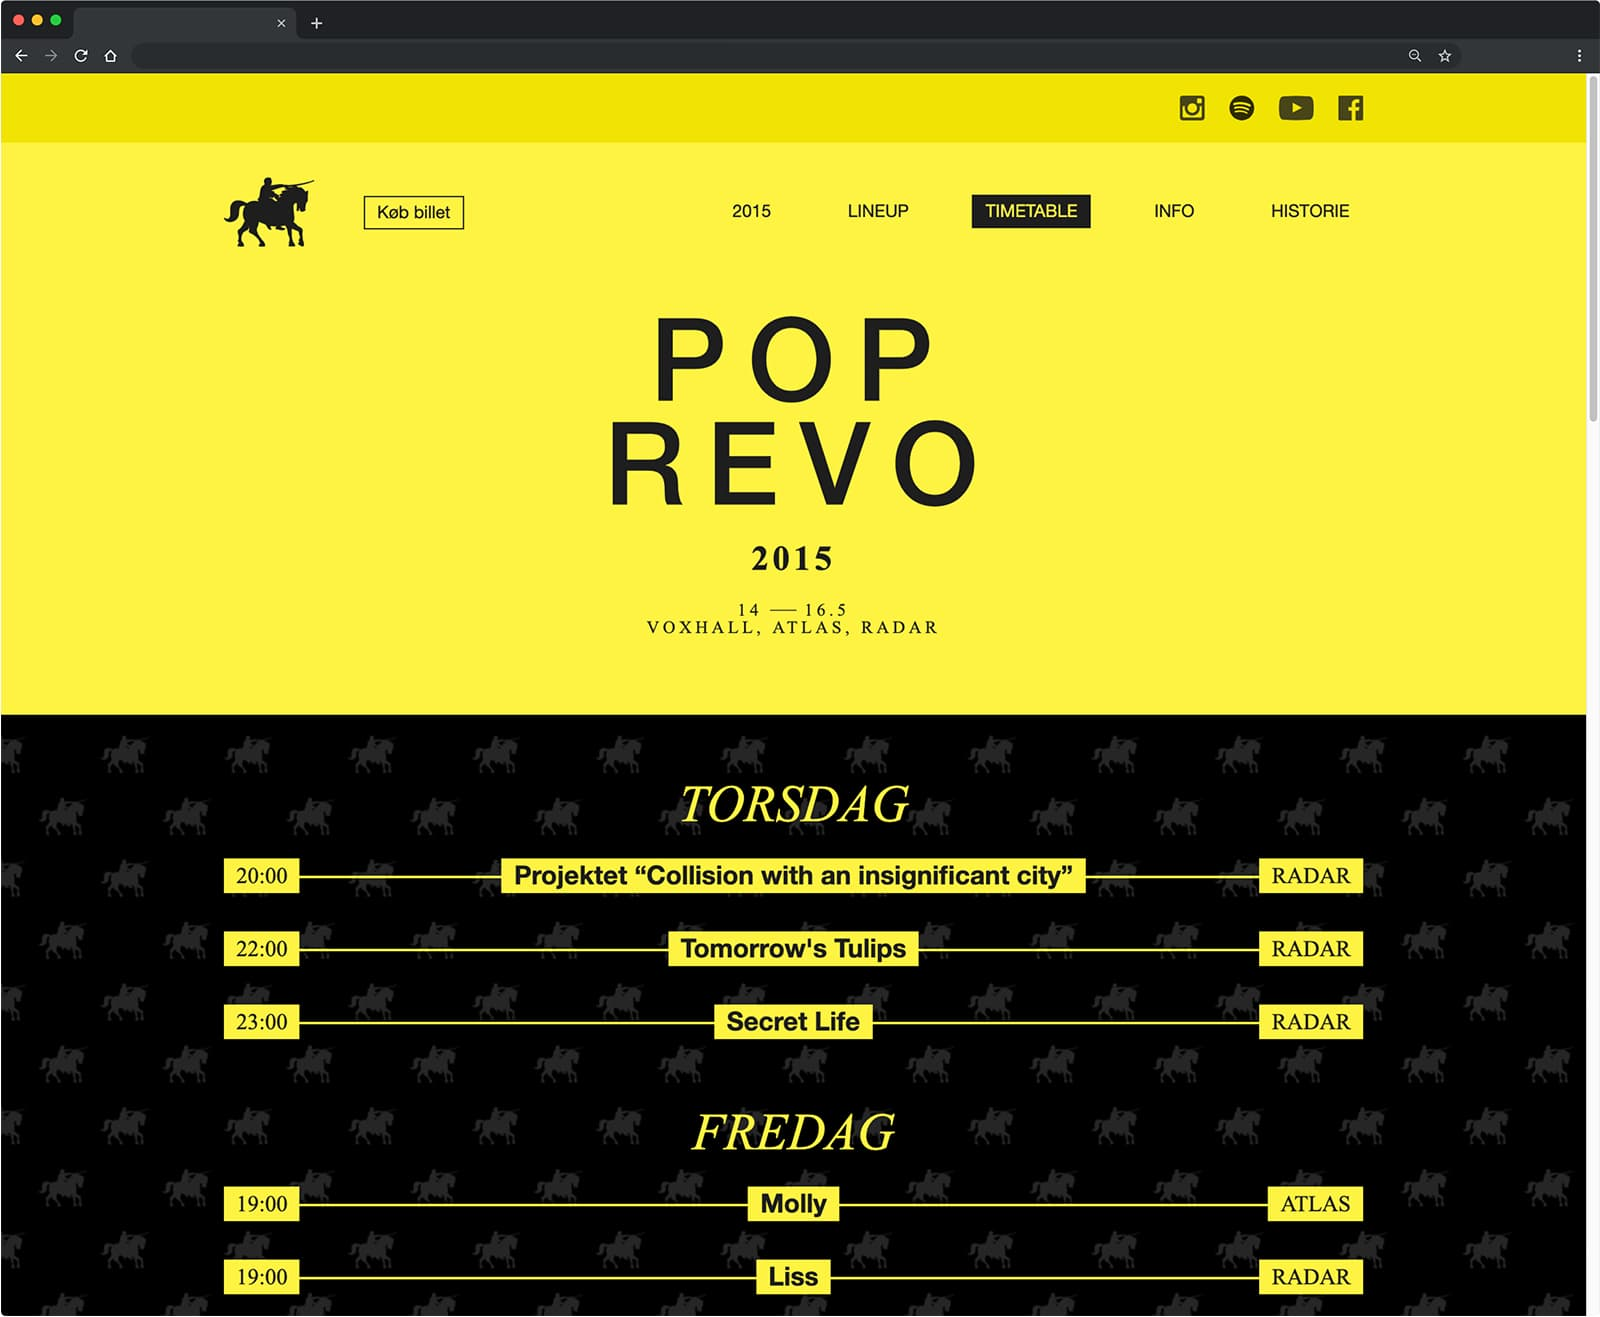
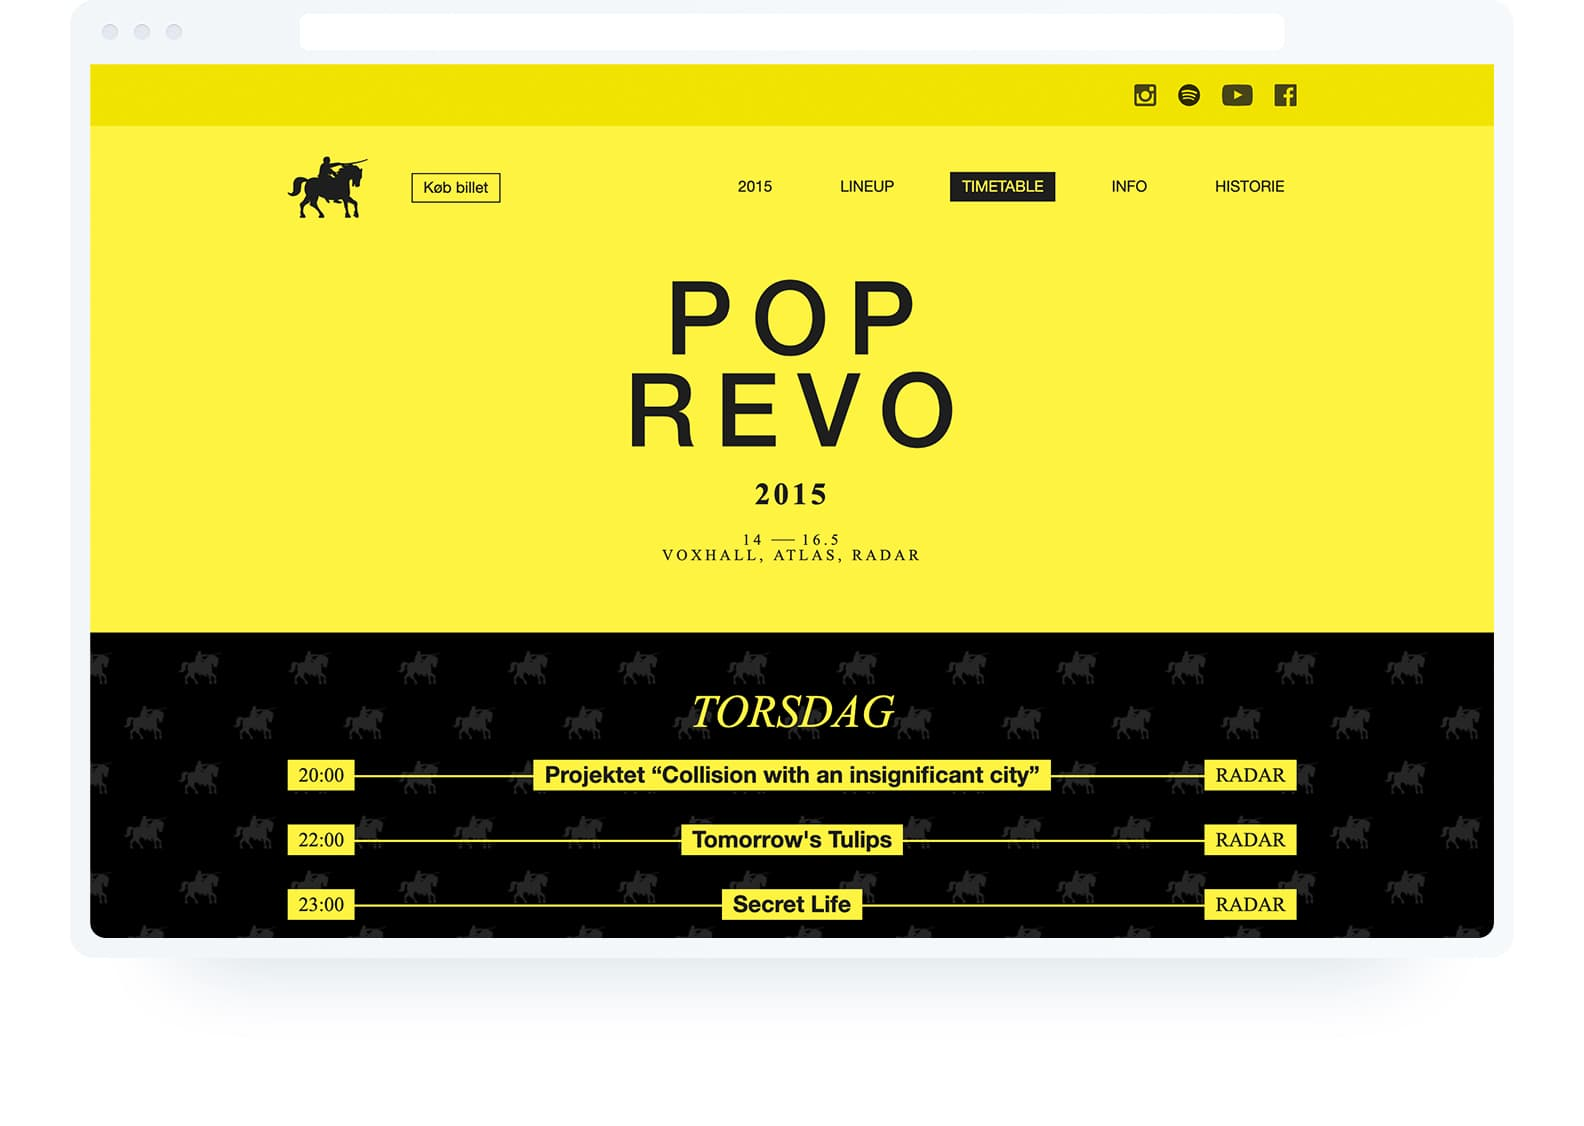
Update browser frames

diff --git a/src/pages/portfolio.js b/src/pages/portfolio.js
@@ -10,14 +10,14 @@ import detFynskB from '../portfolio/det-fynsk-b.jpg';
 import djasLogo from '../portfolio/djas-logo.jpg';
 import djas from '../portfolio/djas.jpg';
 import easyTV from '../portfolio/easytv.png';
-import fluxfestival2015 from '../portfolio/fluxfestival2015.jpg';
+import fluxfestival2015 from '../portfolio/fluxfestival2015-2.jpg';
 import lydiprovinsen1 from '../portfolio/lydiprovinsen-1.png';
 import lydiprovinsen2a from '../portfolio/lydiprovinsen-2a.png';
 import malffd from '../portfolio/malffd.jpg';
 import museums from '../portfolio/museums.jpg';
 import odenseVinterjazz from '../portfolio/odense-vinterjazz.png';
-import poprevo from '../portfolio/poprevo2.jpg';
-import snedkermesteren from '../portfolio/snedkermesteren2.jpg';
+import poprevo from '../portfolio/poprevo-2.jpg';
+import snedkermesteren from '../portfolio/snedkermesteren-2.jpg';
 import tankestroem from '../portfolio/tankestroem.jpg';
 import tschichold from '../portfolio/tschichold.jpg';
 
